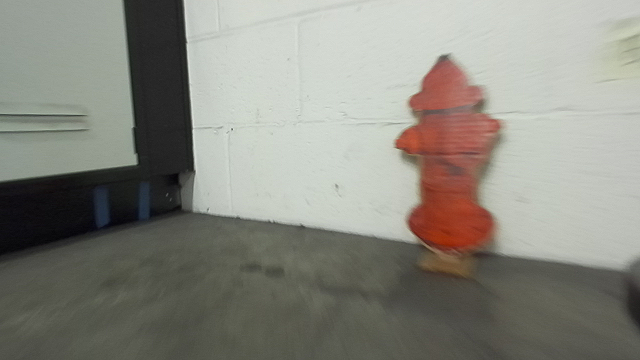
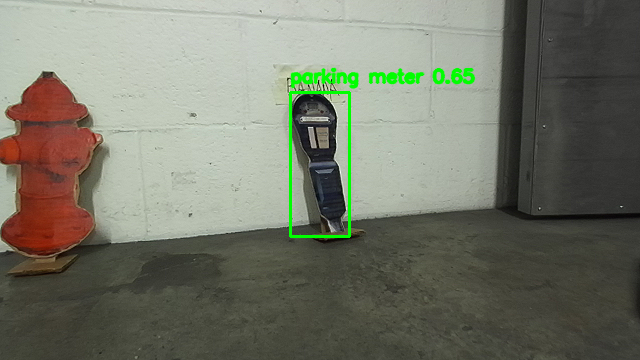
param and parking changes

diff --git a/src/boating_school_state_machine/boating_school_state_machine/boating_school_state_machine.py b/src/boating_school_state_machine/boating_school_state_machine/boating_school_state_machine.py
@@ -163,9 +163,9 @@ class BoatingSchoolNode(Node):
             for spot in self.parking_spots:
                 self.get_logger().info(f"Parking Spot at X: {spot.pose.position.x}, Y: {spot.pose.position.y}")
             
+            self.goal_pub.publish(self.parking_spots[0])
             self.robot_state = "NAVIGATING_TO_SPOT_1"
             self.robot_state_pub.publish(String(data = self.robot_state))
-            self.goal_pub.publish(self.parking_spots[0])
     
 
     def traffic_light_stop_cb(self, msg: Bool):
@@ -240,15 +240,12 @@ class BoatingSchoolNode(Node):
             if self.robot_state == "PARKING_AT_SPOT_1":
                 self.get_logger().info("Successfully Parked at Spot 1")
 
+                self.goal_pub.publish(self.parking_spots[1])
                 self.robot_state = "NAVIGATING_TO_SPOT_2"
                 self.robot_state_pub.publish(String(data = self.robot_state))
 
-                self.goal_pub.publish(self.parking_spots[1])
             elif self.robot_state == "PARKING_AT_SPOT_2":
                 self.get_logger().info("Successfully Parked at Spot 2")
-
-                self.robot_state = "NAVIGATING_TO_START_1"
-                self.robot_state_pub.publish(String(data = self.robot_state))
 
                 self.initial_pose.header.stamp = self.get_clock().now().to_msg()
                 # Set goal midway to start so robot goes long way around
@@ -265,6 +262,9 @@ class BoatingSchoolNode(Node):
                 midway_home.pose.orientation.z = 0.0
                 midway_home.pose.orientation.w = 1.0
                 self.goal_pub.publish(midway_home)
+
+                self.robot_state = "NAVIGATING_TO_START_1"
+                self.robot_state_pub.publish(String(data = self.robot_state))
         
 
     def goal_reached_cb(self, msg: Bool):
@@ -286,11 +286,11 @@ class BoatingSchoolNode(Node):
             self.get_logger().info("Starting sweep to find parking spot 2...")
             self.start_sweep()
         elif self.robot_state == "NAVIGATING_TO_START_1":
-            self.robot_state = "NAVIGATING_TO_START_2"
-            self.robot_state_pub.publish(String(data = self.robot_state))
-            
             self.initial_pose.header.stamp = self.get_clock().now().to_msg()
             self.goal_pub.publish(self.initial_pose)
+
+            self.robot_state = "NAVIGATING_TO_START_2"
+            self.robot_state_pub.publish(String(data = self.robot_state))
         elif self.robot_state == "NAVIGATING_TO_START_2":
             self.robot_state = "COMPLETE"
             self.robot_state_pub.publish(String(data = self.robot_state))

diff --git a/src/traffic_light/traffic_light/traffic_light_node.py b/src/traffic_light/traffic_light/traffic_light_node.py
@@ -69,8 +69,8 @@ class TrafficLightNode(Node):
 
         # ── Parameters ────────────────────────────────────────────────────────
         self.declare_parameter("drive_topic", "/vesc/low_level/input/navigation_filtered")
-        self.declare_parameter("stop_distance", 1.5)      # metres — full stop inside this
-        self.declare_parameter("slowdown_distance", 1.6)  # metres — start slowing here
+        self.declare_parameter("stop_distance", 2.0)      # metres — full stop inside this
+        self.declare_parameter("slowdown_distance", 2.1)  # metres — start slowing here
         self.declare_parameter("min_approach_speed", 0.1) # m/s — slowest before full stop
 
         DRIVE_TOPIC = self.get_parameter("drive_topic").value
@@ -276,31 +276,12 @@ class TrafficLightNode(Node):
                 f"dist={self._distance_to_light()}",
                 throttle_duration_sec=1.0,
             )
-        elif self._is_slowing_down():
-            # Publish a scaled-down speed on nav_0 to override the trajectory
-            # follower's full speed on nav_2
-            scaled_speed = self._scaled_approach_speed(self._planner_speed)
-            slow_cmd = AckermannDriveStamped()
-            slow_cmd.header.stamp = self.get_clock().now().to_msg()
-            slow_cmd.drive.speed = scaled_speed
-            slow_cmd.drive.steering_angle = self._last_steering_angle
-            self.drive_pub.publish(slow_cmd)
-            self.get_logger().info(
-                f"Slowing — dist={self._distance_to_light():.2f}m, "
-                f"speed={scaled_speed:.2f}m/s",
-                throttle_duration_sec=1.0,
-            )
 
     # ── Helpers ───────────────────────────────────────────────────────────────
 
     def _should_stop(self) -> bool:
         """Full stop: red detected AND within stop_distance (or distance unknown)."""
-        if not (self.yolo_light_detected and self.red_light_detected):
-            return False
-        dist = self._distance_to_light()
-        if dist is None:
-            return True  # no homography yet — stop to be safe
-        return dist <= self.stop_distance
+        return self.yolo_light_detected and self.red_light_detected
 
     def _is_slowing_down(self) -> bool:
         """

diff --git a/src/visual_servoing/visual_servoing/parking_controller.py b/src/visual_servoing/visual_servoing/parking_controller.py
@@ -65,6 +65,8 @@ class ParkingController(Node):
 
         self.robot_state = "MCL_INITIALIZATION"
 
+        self.meter_detected = False
+
         # Physical Car Constants
         self.WHEELBASE = 0.325
         self.CAR_WIDTH = 0.25
@@ -133,6 +135,8 @@ class ParkingController(Node):
         if "PARKING" not in self.robot_state:
             return
 
+        self.meter_detected = msg.data
+
         if msg.data and self.relative_x is not None:
             # Meter found
             self.run_parking_control(self.relative_x, self.relative_y)
@@ -197,7 +201,7 @@ class ParkingController(Node):
         #################################
 
         # Check if the car is in the proper parking state (within a threshold of distance and orientation angle)
-        is_parked = (abs(cone_dist - self.PARKING_DISTANCE) <= self.DISTANCE_THRESHOLD) and (abs(cone_angle) <= self.ANGLE_THRESHOLD) 
+        is_parked = (abs(cone_dist - self.PARKING_DISTANCE) <= self.DISTANCE_THRESHOLD) and (abs(cone_angle) <= self.ANGLE_THRESHOLD) and self.meter_detected 
         if is_parked:
             self.parking_state = ParkingState.PARKED
             self.drive_publisher(0.0, 0.0, self.get_clock().now().to_msg()) # Tell car to stop
@@ -207,8 +211,6 @@ class ParkingController(Node):
             self.cone_angle_publisher(cone_angle)
 
             if self.parking_timer is None:
-                self.park_count += 1
-                self.get_logger().info(f"Parked at spot {self.park_count}. Capturing Image...")
                 self.parking_timer = self.create_timer(5.0, self.finish_parking)
             return
         
@@ -257,6 +259,12 @@ class ParkingController(Node):
 
     def finish_parking(self):
         if self.latest_parking_image is not None:
+            self.get_logger().info(f"Parked at spot {self.park_count}. Capturing Image...")
+            self.park_count += 1
+            self.global_meter_x = None
+            self.global_meter_y = None
+            self.relative_meter_x = None
+            self.relative_meter_y = None
             try:
                 bgr = self.bridge.imgmsg_to_cv2(self.latest_parking_image, desired_encoding="bgr8")
                 save_dir = os.path.expanduser("~/racecar_ws/parking_images")

diff --git a/src/visual_servoing/visual_servoing/traffic_light_homography.py b/src/visual_servoing/visual_servoing/traffic_light_homography.py
@@ -24,16 +24,16 @@ from vs_msgs.msg import ConeLocation, ConeLocationPixel
 ######################################################
 # COPY YOUR CALIBRATED POINTS FROM homography_transformer.py
 # PTS_IMAGE_PLANE units are in pixels
-PTS_IMAGE_PLANE = [[299, 213],
-                   [562, 323],
-                   [206, 168],
-                   [571, 169]]
+PTS_IMAGE_PLANE = [[378, 311],
+                   [564, 283],
+                   [203, 272],
+                   [379, 217]]
 
 # PTS_GROUND_PLANE units are in inches
-PTS_GROUND_PLANE = [[42, 5],
-                    [23, -7],
-                    [82.5, 28],
-                    [77, -43]]
+PTS_GROUND_PLANE = [[25, 0],
+                    [27, -10],
+                    [28.5, 9],
+                    [41, -3]]
 ######################################################
 
 METERS_PER_INCH = 0.0254

diff --git a/src/traffic_light/traffic_light/traffic_light_detection.py b/src/traffic_light/traffic_light/traffic_light_detection.py
@@ -19,9 +19,9 @@ def cd_red_light_segmentation(img, debug=False):
 
     # Stricter HSV ranges but still allowing farther away lights
     # change saturation and value to do so
-    lower_red1 = np.array([0,   130,  220])
+    lower_red1 = np.array([0,   145,  170])
     upper_red1 = np.array([40,   255,  255]) #try allowing a little orange and even yellow but amp up the saturation and value needed
-    lower_red2 = np.array([175, 130,  220])
+    lower_red2 = np.array([175, 145,  170])
     upper_red2 = np.array([180, 255, 255])
 
     mask1 = cv2.inRange(img_hsv, lower_red1, upper_red1)

diff --git a/src/path_planning/path_planning/trajectory_planner.py b/src/path_planning/path_planning/trajectory_planner.py
@@ -165,9 +165,9 @@ class PathPlan(Node):
 
     def pose_cb(self, pose):
         #Trying out just automatically returning
-        if self.pose is None:
-            self.pose = pose.pose.pose
-        return
+        #if self.pose is None:
+            #self.pose = pose.pose.pose
+        #return
         self.pose = pose.pose.pose
         self.plan_path()
 

diff --git a/src/visual_servoing/visual_servoing/final_detector.py b/src/visual_servoing/visual_servoing/final_detector.py
@@ -40,7 +40,7 @@ class YoloAnnotatorNode(Node):
             .string_value
         )
         self.conf_threshold = (
-            self.declare_parameter("conf_threshold", 0.50) #lowered from .85
+            self.declare_parameter("conf_threshold", 0.40) #lowered from .85
             .get_parameter_value()
             .double_value
         )
